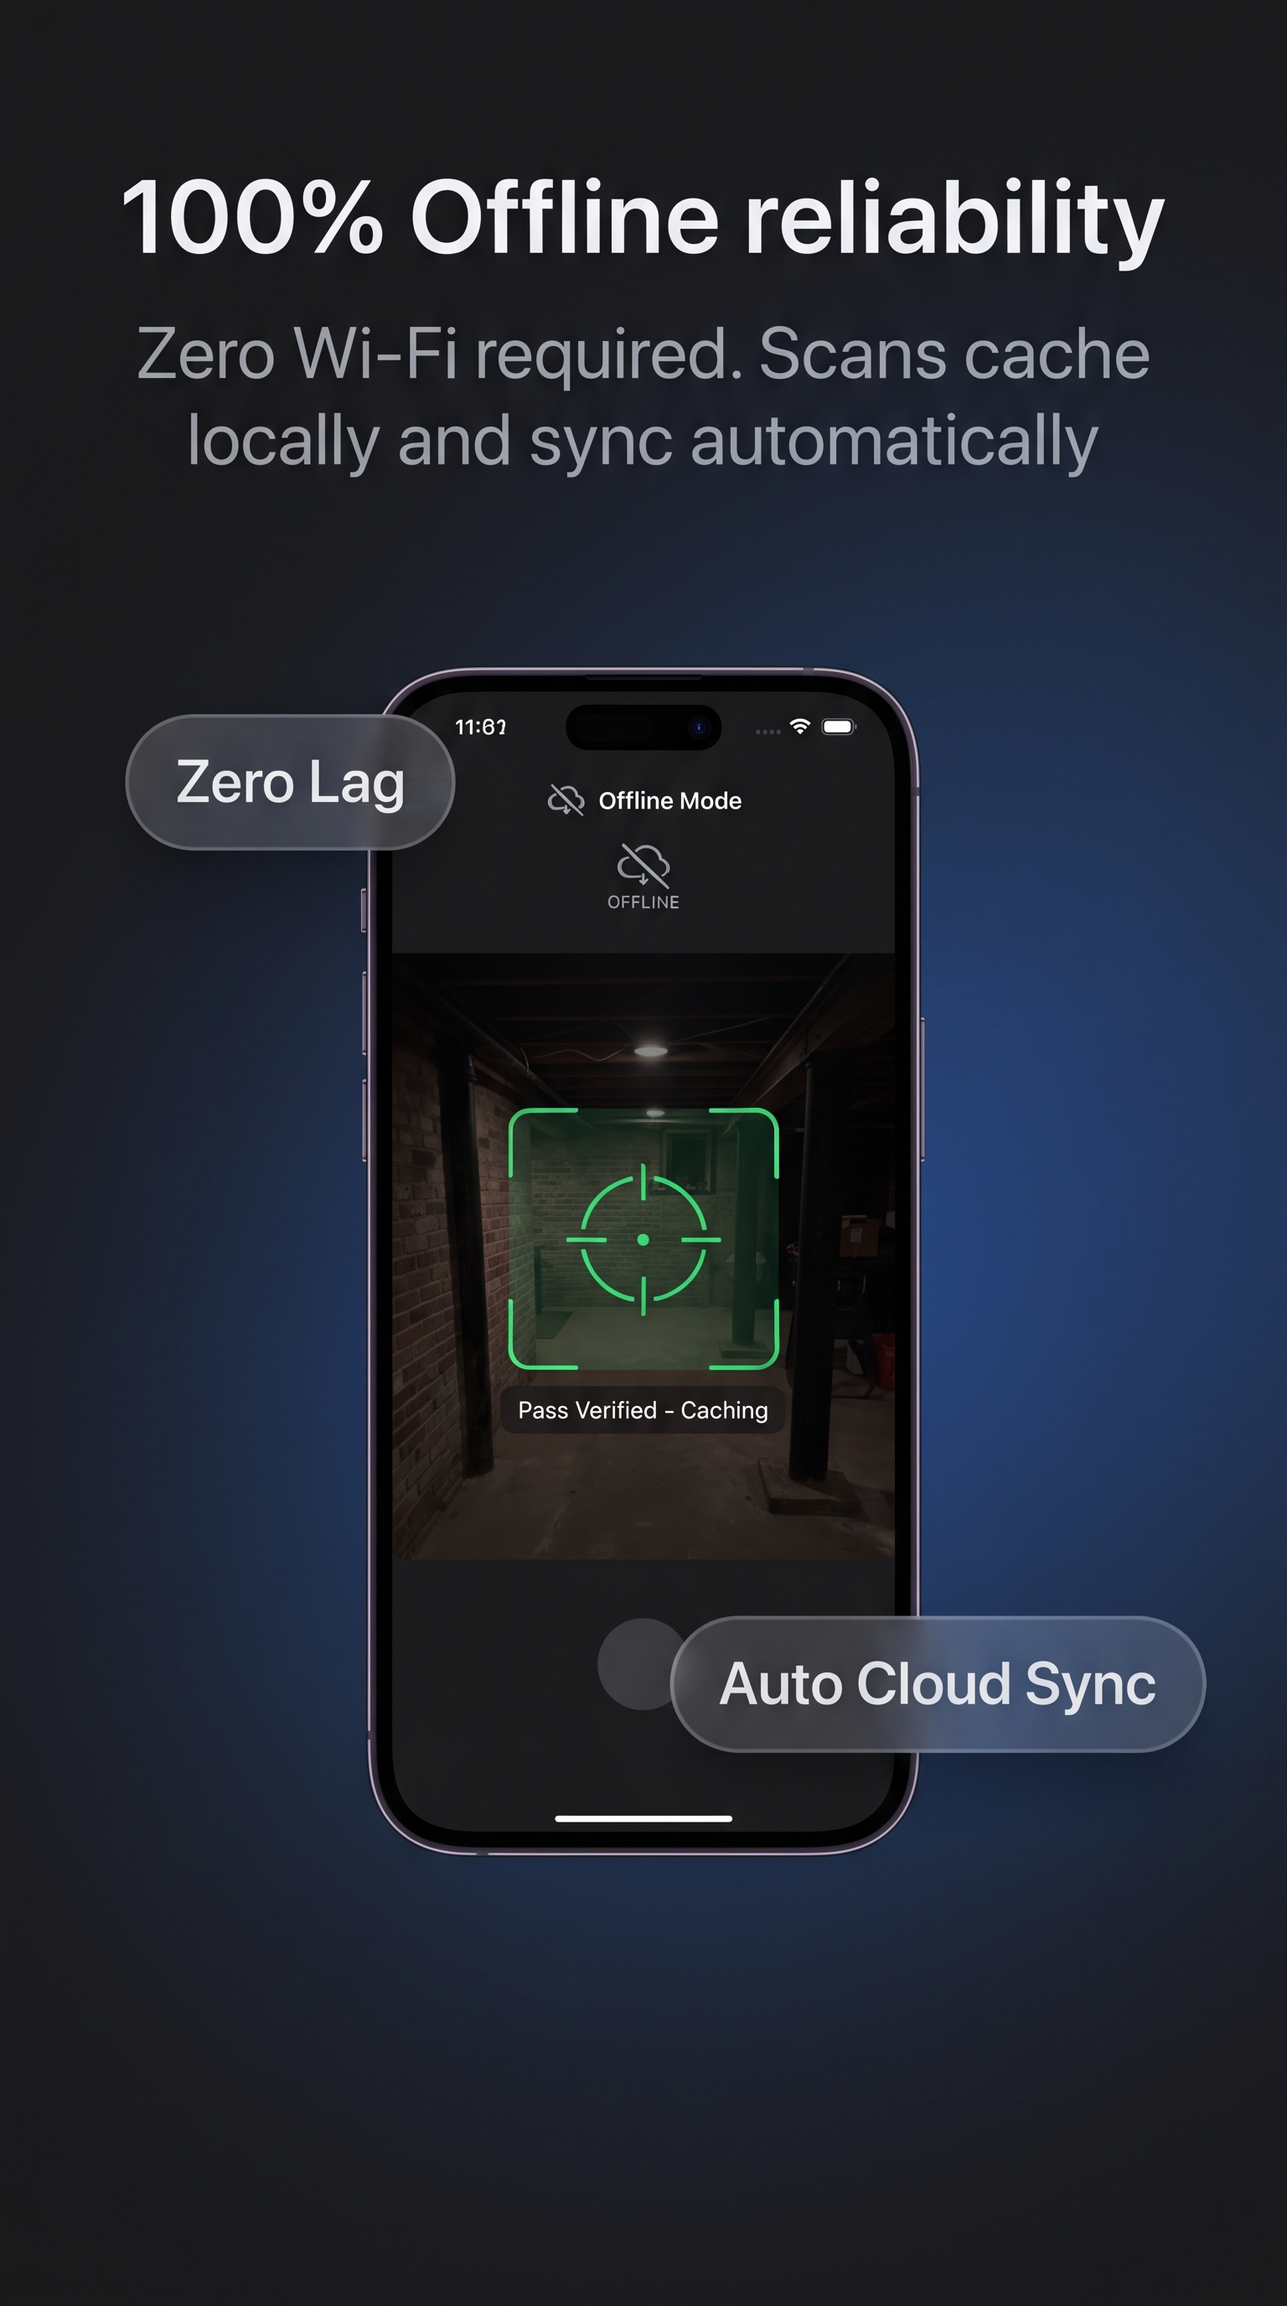
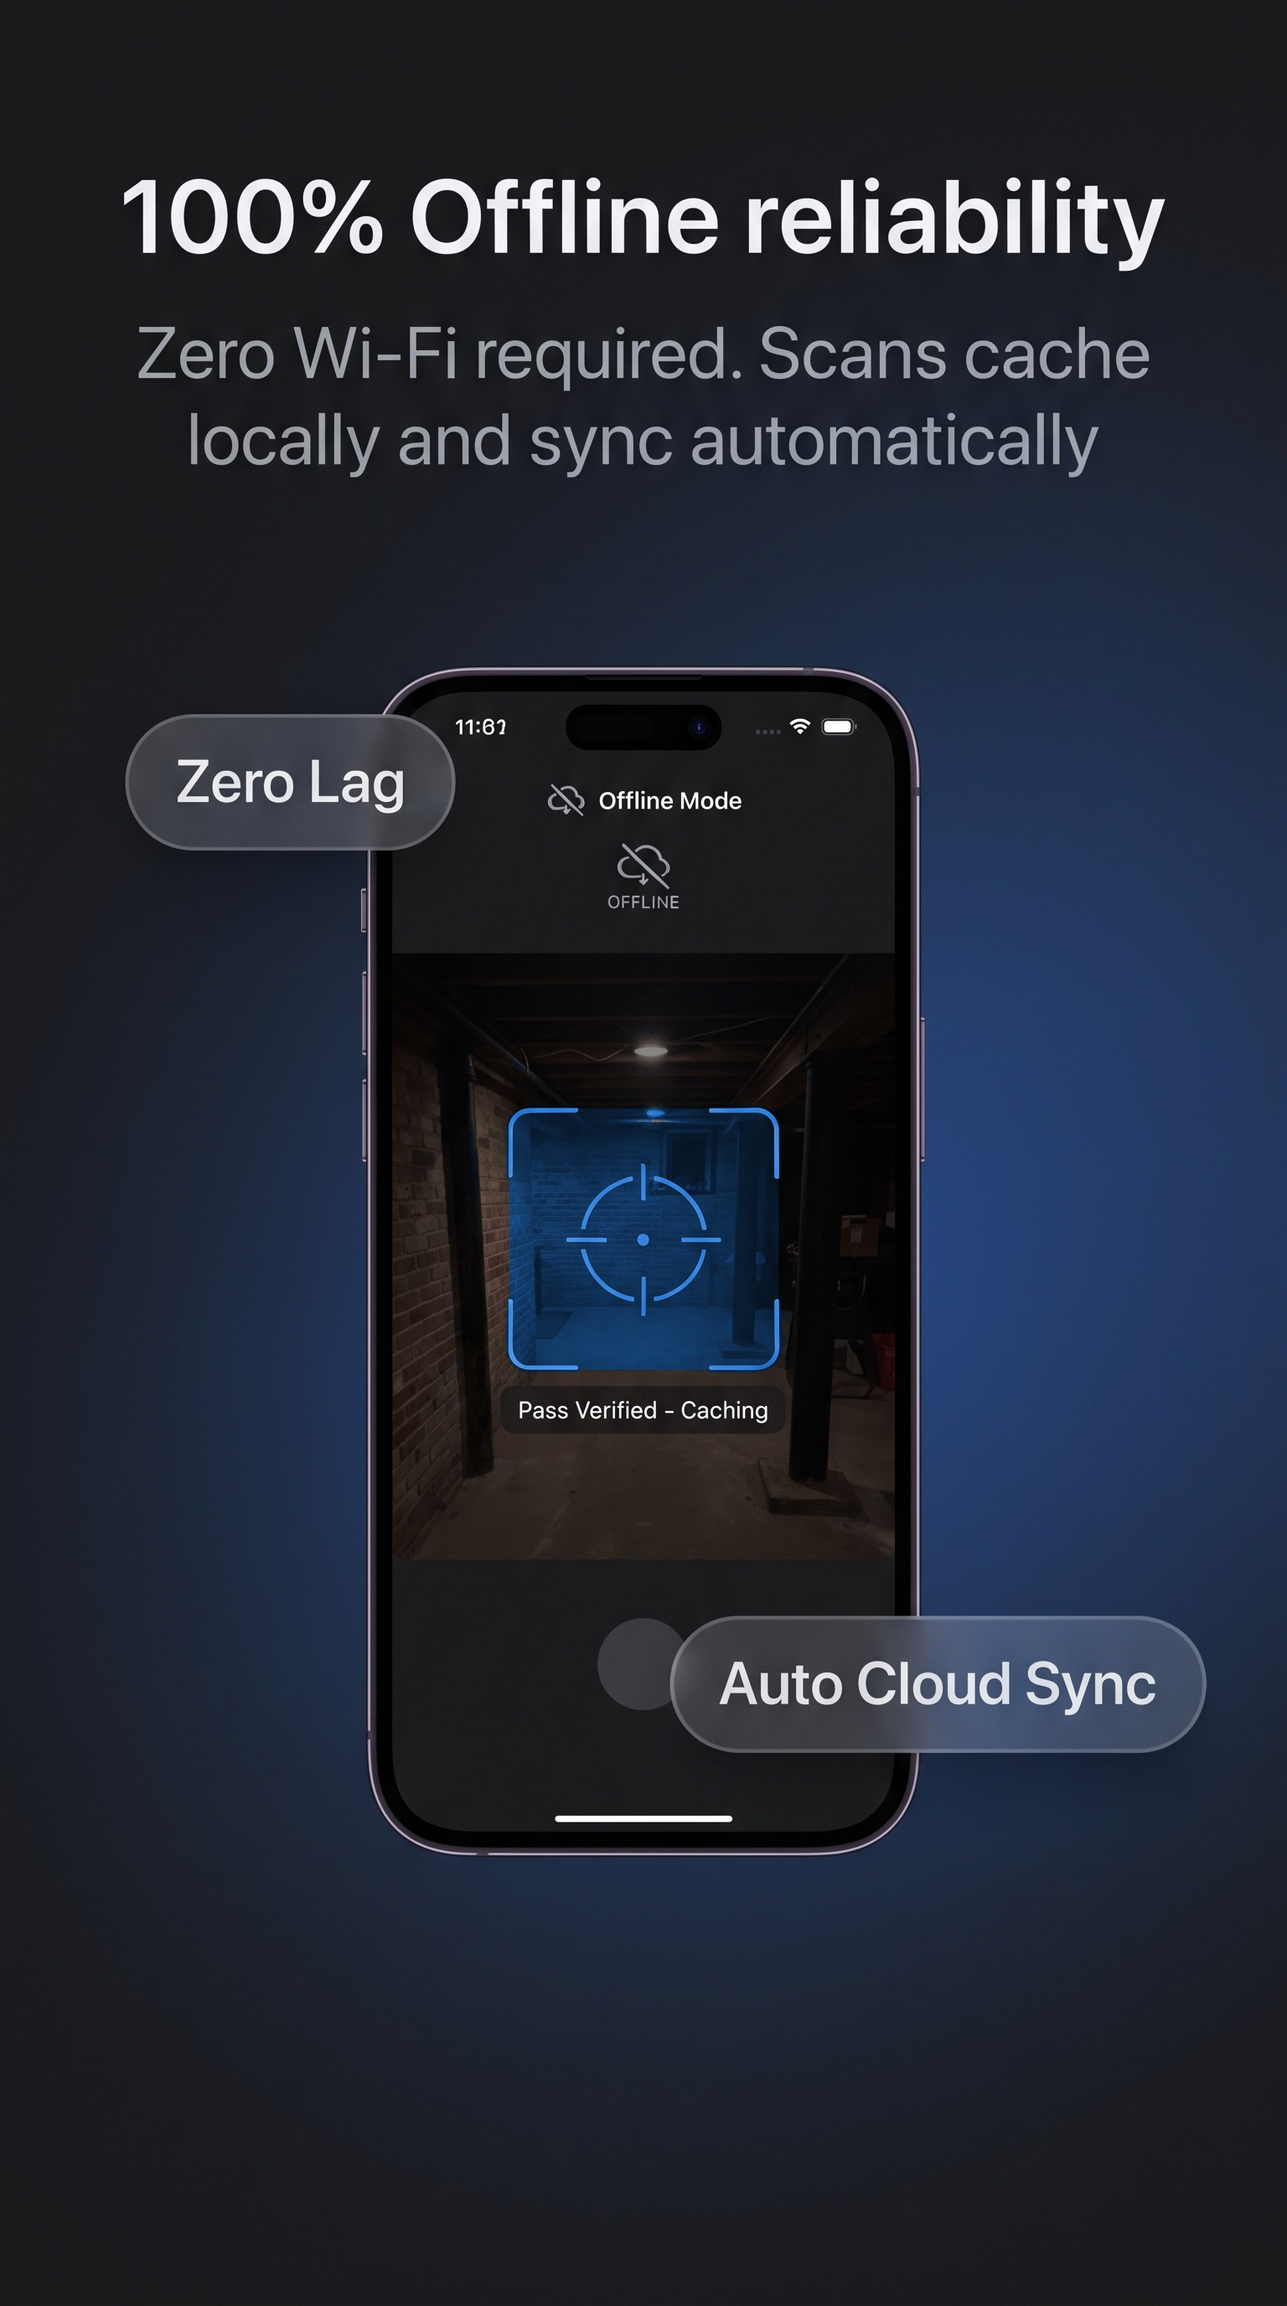
Convert all card mockups and checkmarks from green to Klentro blue palette

Changed region(s): [[0.375, 0.4688, 0.625, 0.5938]]

diff --git a/scripts/inspect_and_convert_cards.js b/scripts/inspect_and_convert_cards.js
@@ -1,0 +1,165 @@
+const sharp = require('sharp');
+const fs = require('fs');
+const path = require('path');
+
+function rgbToHsl(r, g, b) {
+  r /= 255; g /= 255; b /= 255;
+  const max = Math.max(r, g, b), min = Math.min(r, g, b);
+  let h, s, l = (max + min) / 2;
+
+  if (max === min) {
+    h = s = 0;
+  } else {
+    const d = max - min;
+    s = l > 0.5 ? d / (2 - max - min) : d / (max + min);
+    switch (max) {
+      case r: h = (g - b) / d + (g < b ? 6 : 0); break;
+      case g: h = (b - r) / d + 2; break;
+      case b: h = (r - g) / d + 4; break;
+    }
+    h /= 6;
+  }
+  return [h * 360, s, l];
+}
+
+function hslToRgb(h, s, l) {
+  h /= 360;
+  let r, g, b;
+  if (s === 0) {
+    r = g = b = l;
+  } else {
+    const hue2rgb = (p, q, t) => {
+      if (t < 0) t += 1;
+      if (t > 1) t -= 1;
+      if (t < 1/6) return p + (q - p) * 6 * t;
+      if (t < 1/2) return q;
+      if (t < 2/3) return p + (q - p) * (2/3 - t) * 6;
+      return p;
+    };
+    const q = l < 0.5 ? l * (1 + s) : l + s - l * s;
+    const p = 2 * l - q;
+    r = hue2rgb(p, q, h + 1/3);
+    g = hue2rgb(p, q, h);
+    b = hue2rgb(p, q, h - 1/3);
+  }
+  return [Math.round(r * 255), Math.round(g * 255), Math.round(b * 255)];
+}
+
+async function convertImageGreenToBlue(inputPath, outputPath) {
+  const image = sharp(inputPath);
+  const metadata = await image.metadata();
+  const { data, info } = await image.raw().toBuffer({ resolveWithObject: true });
+  const { width, height, channels } = info;
+  const totalPixels = width * height;
+  const output = Buffer.alloc(totalPixels * channels);
+
+  let greenCount = 0;
+
+  for (let i = 0; i < totalPixels; i++) {
+    const idx = i * channels;
+    const r = data[idx];
+    const g = data[idx + 1];
+    const b = data[idx + 2];
+    const a = channels === 4 ? data[idx + 3] : 255;
+
+    const [h, s, l] = rgbToHsl(r, g, b);
+
+    // Green range detection (including faint/dark fringes):
+    const isGreenHue = h >= 45 && h <= 185 && s > 0.07 && l > 0.03 && l < 0.97;
+    const isDominantGreen = g > r * 1.05 && g > b * 1.05 && g > 20;
+
+    if (isGreenHue || isDominantGreen) {
+      greenCount++;
+      // Convert to Klentro Electric Blue (hue ~212, RGB ~ #007AFF)
+      const targetHue = 212; // Apple system blue / Klentro electric blue
+      const targetSat = Math.max(0.70, Math.min(1.0, s * 1.15));
+      const [nr, ng, nb] = hslToRgb(targetHue, targetSat, l);
+
+      output[idx] = nr;
+      output[idx + 1] = ng;
+      output[idx + 2] = nb;
+    } else {
+      output[idx] = r;
+      output[idx + 1] = g;
+      output[idx + 2] = b;
+    }
+
+    if (channels === 4) {
+      output[idx + 3] = a;
+    }
+  }
+
+  console.log(`${path.basename(inputPath)}: found and replaced ${greenCount} green pixels.`);
+
+  let sharpInstance = sharp(output, {
+    raw: { width, height, channels }
+  });
+
+  if (outputPath.endsWith('.jpg') || outputPath.endsWith('.jpeg')) {
+    await sharpInstance.jpeg({ quality: 95 }).toFile(outputPath);
+  } else {
+    await sharpInstance.png().toFile(outputPath);
+  }
+}
+
+async function main() {
+  const imagesDir = path.join(__dirname, '../public/images');
+  const cardFiles = [
+    'KlentroQR-card1.jpg',
+    'KlentroQR-card2.jpg',
+    'KlentroQR-card3.jpg',
+    'KlentroQR-card4.jpg',
+    'KlentroQR-card5.jpg',
+  ];
+
+  for (const card of cardFiles) {
+    const fullPath = path.join(imagesDir, card);
+    const backupPath = path.join(imagesDir, `backup_${card}`);
+
+    // If backup does not exist yet, save original as backup
+    if (!fs.existsSync(backupPath)) {
+      fs.copyFileSync(fullPath, backupPath);
+      console.log(`Created backup: backup_${card}`);
+    }
+
+    const tempOut = path.join(imagesDir, `temp_${card}`);
+    await convertImageGreenToBlue(backupPath, tempOut);
+
+    // Overwrite the original card with the blue version
+    fs.copyFileSync(tempOut, fullPath);
+    fs.unlinkSync(tempOut);
+    console.log(`Updated ${card} with Klentro Blue palette!`);
+  }
+
+  // Also check other mockup images in public/images/ and public/
+  const otherImages = [
+    'KlentroQR-checking.png',
+    'KlentroQR-dashboard.png',
+    'KlentroQR-data.jpg',
+    'KlentroQR-preview.png'
+  ];
+
+  for (const imgName of otherImages) {
+    const fullPath = path.join(imagesDir, imgName);
+    if (fs.existsSync(fullPath)) {
+      const backupPath = path.join(imagesDir, `backup_${imgName}`);
+      if (!fs.existsSync(backupPath)) {
+        fs.copyFileSync(fullPath, backupPath);
+      }
+      const tempOut = path.join(imagesDir, `temp_${imgName}`);
+      await convertImageGreenToBlue(backupPath, tempOut);
+      fs.copyFileSync(tempOut, fullPath);
+      fs.unlinkSync(tempOut);
+
+      // Also copy to public/ root if it exists there
+      const publicRootPath = path.join(__dirname, '../public', imgName);
+      if (fs.existsSync(publicRootPath)) {
+        fs.copyFileSync(fullPath, publicRootPath);
+      }
+    }
+  }
+
+  console.log('All image transformations completed successfully!');
+}
+
+main().catch(console.error);

diff --git a/src/app/pricing/PricingClient.tsx b/src/app/pricing/PricingClient.tsx
@@ -264,7 +264,7 @@ export default function PricingClient() {
                       </span>
                       {plan.features.map((feature, fIdx) => (
                         <div key={fIdx} className="flex items-start gap-2">
-                          <div className="w-4 h-4 rounded-full bg-[#ECFDF5] text-[#10B981] flex items-center justify-center shrink-0 mt-0.5">
+                          <div className="w-4 h-4 rounded-full bg-[#EFF6FF] text-[#007AFF] flex items-center justify-center shrink-0 mt-0.5">
                             <Check className="w-3 h-3 stroke-[3]" />
                           </div>
                           <span className="text-xs sm:text-sm md:text-[12px] lg:text-sm text-[#4B5563] leading-relaxed">
@@ -332,7 +332,7 @@ export default function PricingClient() {
                           <td className="py-3.5 px-4 text-center text-xs sm:text-sm text-[#4B5563]">
                             {typeof row.starter === "boolean" ? (
                               row.starter ? (
-                                <Check className="w-4 h-4 text-[#10B981] mx-auto stroke-[3]" />
+                                <Check className="w-4 h-4 text-[#007AFF] mx-auto stroke-[3]" />
                               ) : (
                                 <X className="w-4 h-4 text-[#D1D1D6] mx-auto" />
                               )
@@ -354,7 +354,7 @@ export default function PricingClient() {
                           <td className="py-3.5 px-4 text-center text-xs sm:text-sm text-[#4B5563]">
                             {typeof row.enterprise === "boolean" ? (
                               row.enterprise ? (
-                                <Check className="w-4 h-4 text-[#10B981] mx-auto stroke-[3]" />
+                                <Check className="w-4 h-4 text-[#007AFF] mx-auto stroke-[3]" />
                               ) : (
                                 <X className="w-4 h-4 text-[#D1D1D6] mx-auto" />
                               )

diff --git a/src/app/guide/GuideClient.tsx b/src/app/guide/GuideClient.tsx
@@ -88,7 +88,7 @@ export default function GuideClient() {
       instruction: "Open the Klentro scanner on any smartphone, tablet, or mounted laptop webcam.",
       details: [
         "Point your camera at the pass from 6 to 12 inches away—detection occurs in under 200 milliseconds.",
-        "Instant audio chime and emerald screen flash confirm a valid check-in.",
+        "Instant audio chime and blue screen flash confirm a valid check-in.",
         "Exact time-in timestamps and arrival status (On-Time or Late) are automatically recorded.",
       ],
       tip: "No Wi-Fi? Klentro works completely offline, storing verified check-ins locally until internet resumes.",
@@ -300,7 +300,7 @@ export default function GuideClient() {
                   <div className="space-y-2.5 pl-1">
                     {item.details.map((detail, dIdx) => (
                       <div key={dIdx} className="flex items-start gap-3">
-                        <CheckCircle2 className="w-4 h-4 text-[#10B981] shrink-0 mt-1" />
+                        <CheckCircle2 className="w-4 h-4 text-[#007AFF] shrink-0 mt-1" />
                         <span className="text-xs sm:text-sm text-[#4B5563] leading-relaxed">
                           {detail}
                         </span>
@@ -320,7 +320,7 @@ export default function GuideClient() {
                           onClick={copyCsvTemplate}
                           className="inline-flex items-center gap-1 text-xs text-white hover:text-[#007AFF] transition-colors cursor-pointer"
                         >
-                          {copiedCsv ? <Check className="w-3.5 h-3.5 text-[#10B981]" /> : <Copy className="w-3.5 h-3.5" />}
+                          {copiedCsv ? <Check className="w-3.5 h-3.5 text-[#007AFF]" /> : <Copy className="w-3.5 h-3.5" />}
                           <span>{copiedCsv ? "Copied!" : "Copy CSV Header"}</span>
                         </button>
                       </div>

diff --git a/src/app/how-it-works/page.tsx b/src/app/how-it-works/page.tsx
@@ -42,7 +42,7 @@ const DETAILED_STEPS = [
     imageAspect: "aspect-[4/3]",
     maxImageW: "max-w-[420px]",
     highlights: [
-      "Instant sound chime and green confirmation banner on scan",
+      "Instant sound chime and blue confirmation banner on scan",
       "Accurate arrival timestamp tagged immediately to live record",
       "Works 100% offline in remote venues, basements, and Wi-Fi dead zones",
     ],
@@ -163,7 +163,7 @@ export default function HowItWorksPage() {
                       <div className="space-y-3 pt-2">
                         {step.highlights.map((highlight, hIdx) => (
                           <div key={hIdx} className="flex items-start gap-3">
-                            <div className="w-5 h-5 rounded-full bg-[#ECFDF5] text-[#10B981] flex items-center justify-center shrink-0 mt-0.5">
+                            <div className="w-5 h-5 rounded-full bg-[#EFF6FF] text-[#007AFF] flex items-center justify-center shrink-0 mt-0.5">
                               <CheckCircle2 className="w-3.5 h-3.5" />
                             </div>
                             <span className="text-sm sm:text-base text-[#1D1D1F] font-medium leading-relaxed">

diff --git a/src/components/ComparisonSection.tsx b/src/components/ComparisonSection.tsx
@@ -109,8 +109,8 @@ export default function ComparisonSection() {
                 <div className="space-y-3.5 sm:space-y-4 pt-2">
                   {COMPARISONS.map((item, idx) => (
                     <div key={idx} className="flex items-start gap-3">
-                      <div className="w-5 h-5 rounded-full bg-[#ECFDF5] text-[#10B981] flex items-center justify-center shrink-0 mt-0.5 shadow-xs">
-                        <Check className="w-3.5 h-3.5" />
+                      <div className="w-5 h-5 rounded-full bg-[#EFF6FF] text-[#007AFF] flex items-center justify-center shrink-0 mt-0.5 shadow-xs">
+                        <Check className="w-3.5 h-3.5 stroke-[3]" />
                       </div>
                       <p className="text-xs sm:text-sm md:text-[13px] lg:text-sm text-[#1D1D1F] font-medium leading-relaxed">
                         {item.klentro}

diff --git a/src/app/privacy-policy/page.tsx b/src/app/privacy-policy/page.tsx
@@ -131,8 +131,8 @@ export default function PrivacyPolicyPage() {
 
               <div className="space-y-3 pt-1">
                 <div className="p-4 rounded-2xl bg-[#F9F9FB] border border-[#E5E5E7] space-y-2">
-                  <span className="text-xs font-bold uppercase tracking-wider text-[#10B981] flex items-center gap-1.5">
-                    <CheckCircle2 className="w-4 h-4 text-[#10B981]" />
+                  <span className="text-xs font-bold uppercase tracking-wider text-[#007AFF] flex items-center gap-1.5">
+                    <CheckCircle2 className="w-4 h-4 text-[#007AFF]" />
                     What We Store for Attendance
                   </span>
                   <ul className="text-xs sm:text-sm text-[#4B5563] space-y-1.5 pl-6 list-disc">

diff --git a/src/components/PricingSection.tsx b/src/components/PricingSection.tsx
@@ -148,7 +148,7 @@ export default function PricingSection() {
                   </span>
                   {plan.features.map((feature, fIdx) => (
                     <div key={fIdx} className="flex items-start gap-2.5">
-                      <div className="w-4 h-4 rounded-full bg-[#ECFDF5] text-[#10B981] flex items-center justify-center shrink-0 mt-0.5">
+                      <div className="w-4 h-4 rounded-full bg-[#EFF6FF] text-[#007AFF] flex items-center justify-center shrink-0 mt-0.5">
                         <Check className="w-3 h-3 stroke-[3]" />
                       </div>
                       <span className="text-xs sm:text-sm text-[#4B5563] leading-relaxed">

diff --git a/src/app/faq/FaqClientContent.tsx b/src/app/faq/FaqClientContent.tsx
@@ -59,7 +59,7 @@ export default function FaqClientContent() {
       {/* Privacy Highlight Banner */}
       <ScrollReveal delay={0}>
         <div className="mb-10 p-6 rounded-3xl bg-white border border-[#E5E5E7] flex flex-col sm:flex-row items-start sm:items-center gap-5 shadow-xs">
-          <div className="w-12 h-12 rounded-2xl bg-[#ECFDF5] text-[#10B981] flex items-center justify-center shrink-0">
+          <div className="w-12 h-12 rounded-2xl bg-[#EFF6FF] text-[#007AFF] border border-[#BFDBFE] flex items-center justify-center shrink-0">
             <ShieldCheck className="w-6 h-6" />
           </div>
           <div className="space-y-1">

diff --git a/src/app/terms-of-use/page.tsx b/src/app/terms-of-use/page.tsx
@@ -150,7 +150,7 @@ export default function TermsOfUsePage() {
               <div className="grid grid-cols-1 sm:grid-cols-3 gap-4 pt-2">
                 <div className="p-4 rounded-2xl bg-[#F9F9FB] border border-[#E5E5E7] space-y-1.5">
                   <div className="flex items-center gap-2 text-xs font-bold text-[#1D1D1F]">
-                    <CheckCircle2 className="w-4 h-4 text-[#10B981]" />
+                    <CheckCircle2 className="w-4 h-4 text-[#007AFF]" />
                     <span>Your Data Belongs to You</span>
                   </div>
                   <p className="text-xs text-[#6E6E73] leading-relaxed">

diff --git a/src/components/FaqSection.tsx b/src/components/FaqSection.tsx
@@ -69,7 +69,7 @@ export default function FaqSection() {
 
         {/* Privacy Highlight Banner */}
         <div className="mb-10 p-5 rounded-2xl bg-white border border-[#E5E5E7] flex flex-col sm:flex-row items-start sm:items-center gap-4 shadow-xs">
-          <div className="w-10 h-10 rounded-xl bg-[#ECFDF5] text-[#10B981] flex items-center justify-center shrink-0">
+          <div className="w-10 h-10 rounded-xl bg-[#EFF6FF] text-[#007AFF] border border-[#BFDBFE] flex items-center justify-center shrink-0">
             <ShieldCheck className="w-5 h-5" />
           </div>
           <div className="space-y-0.5">

diff --git a/src/components/HeroWithLiveDemo.tsx b/src/components/HeroWithLiveDemo.tsx
@@ -87,7 +87,7 @@ export default function HeroSection() {
 
             {/* Clean Note */}
             <div className="pt-2 flex items-center justify-center lg:justify-start gap-2 text-xs sm:text-sm text-[#1D1D1F]">
-              <span className="w-2 h-2 rounded-full bg-[#10B981] inline-block" />
+              <span className="w-2 h-2 rounded-full bg-[#007AFF] inline-block" />
               <span className="text-[#007AFF] font-bold">100% Paperless</span>
               <span className="text-[#6E6E73]">for classrooms, offices & events.</span>
             </div>

diff --git a/src/app/globals.css b/src/app/globals.css
@@ -13,8 +13,8 @@
   --color-accent-blue-hover: #0066CC;
   --color-accent-blue-text: #0066CC;
   --color-accent-blue-light: #EBF4FF;
-  --color-accent-green: #10B981;
-  --color-accent-green-light: #ECFDF5;
+  --color-accent-green: #007AFF;
+  --color-accent-green-light: #EFF6FF;
 }
 
 :root {
